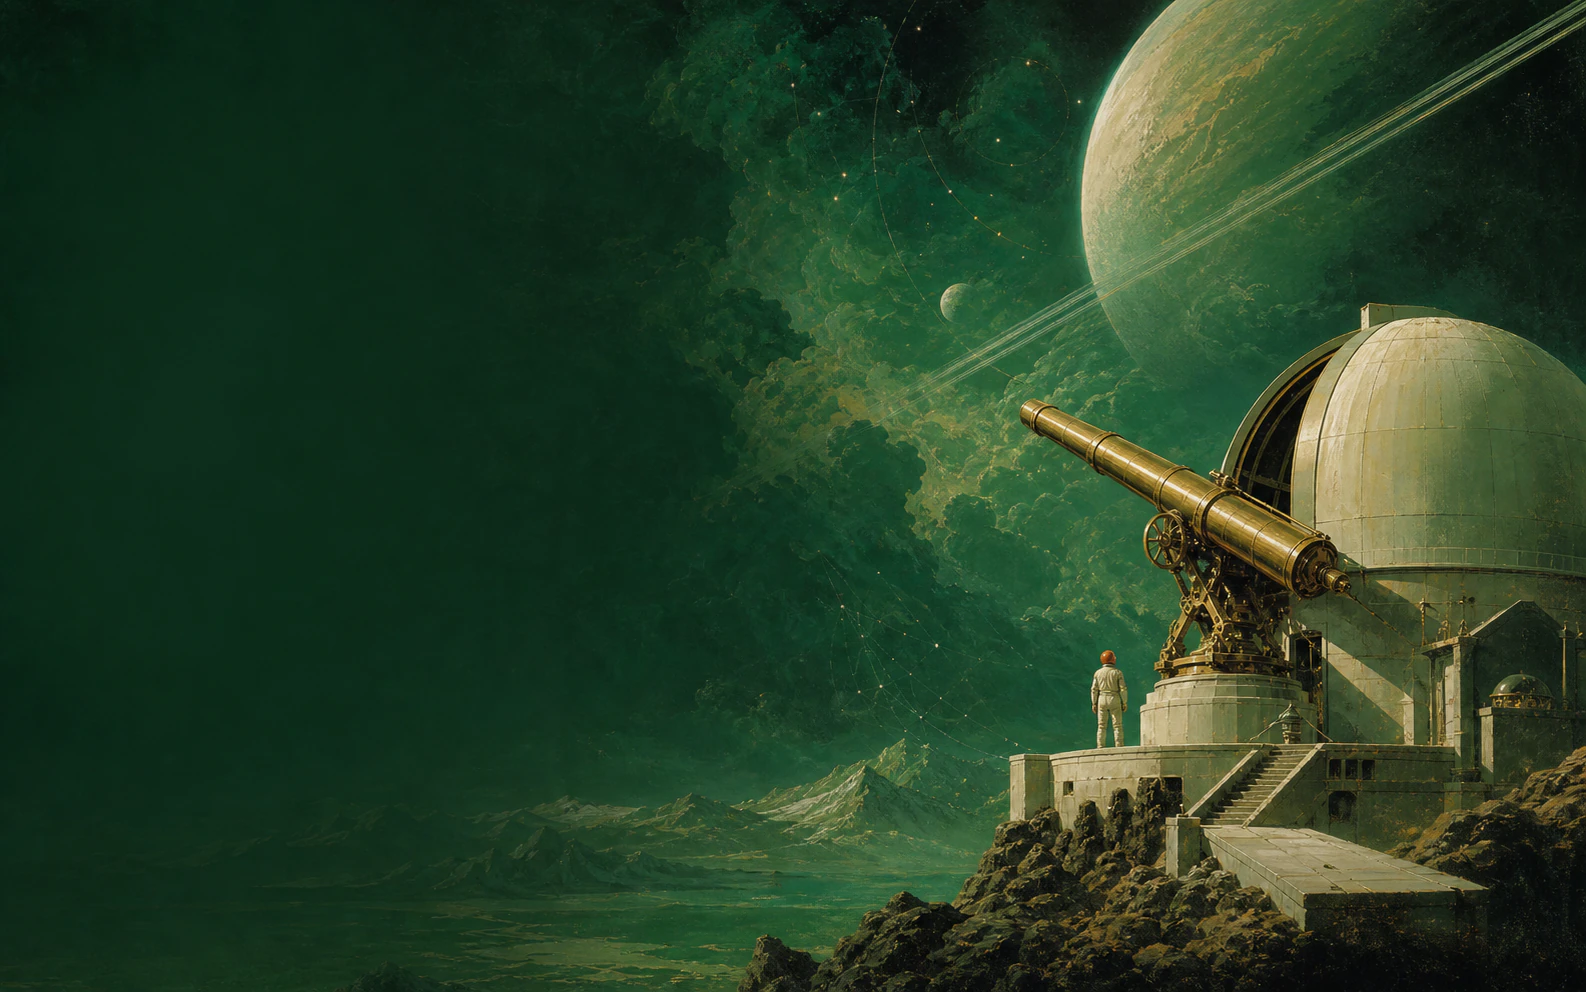
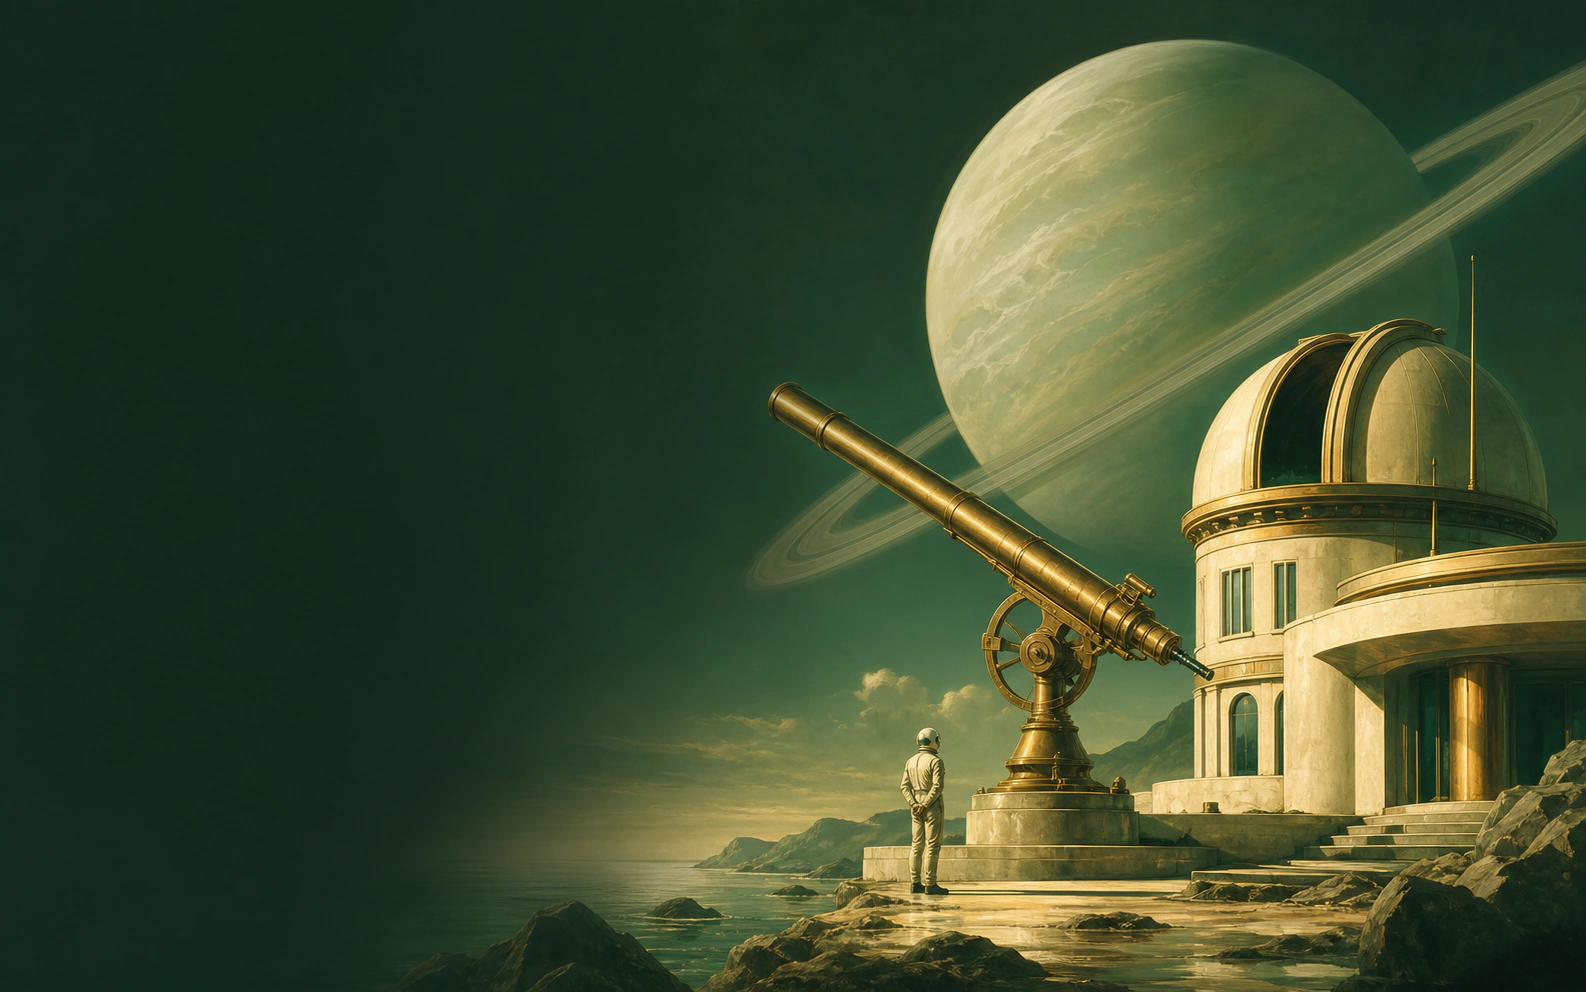
feat(docs): polish full-bleed observatory hero

diff --git a/docs/.vitepress/theme/custom.css b/docs/.vitepress/theme/custom.css
@@ -571,6 +571,9 @@ textarea:focus-visible {
   --home-paper: oklch(0.95 0.03 97);
   --home-ivory: oklch(0.975 0.022 91);
   --home-orange: oklch(0.66 0.16 46);
+  --home-radius-control: 14px;
+  --home-radius-card: 22px;
+  --home-radius-panel: 28px;
   width: 100%;
   overflow: hidden;
   background: var(--home-paper);
@@ -587,15 +590,49 @@ body:has(.uni-docs-home) .VPFooter {
   display: none;
 }
 
+body:has(.uni-docs-home) .VPNav {
+  --vp-c-bg: oklch(0.18 0.05 158);
+  --vp-c-bg-alt: oklch(0.2 0.055 158);
+  --vp-c-bg-soft: oklch(0.25 0.055 158);
+  --vp-c-text-1: oklch(0.975 0.022 91);
+  --vp-c-text-2: oklch(0.84 0.045 122);
+  --vp-c-divider: transparent;
+}
+
+body:has(.uni-docs-home) .VPNavBar {
+  border-bottom: 0 !important;
+  background: oklch(0.18 0.05 158) !important;
+  box-shadow: none !important;
+}
+
+body:has(.uni-docs-home) .VPNavBarTitle .title,
+body:has(.uni-docs-home) .VPNavBarMenuLink,
+body:has(.uni-docs-home) .VPNavBarTranslations .button,
+body:has(.uni-docs-home) .VPNavBarTranslations .text,
+body:has(.uni-docs-home) .VPSocialLink,
+body:has(.uni-docs-home) .VPNavBarHamburger {
+  color: oklch(0.975 0.022 91) !important;
+}
+
+body:has(.uni-docs-home) .VPNavBarSearch .DocSearch-Button {
+  border: 0 !important;
+  background: color-mix(in oklch, white 10%, transparent) !important;
+  color: oklch(0.84 0.045 122) !important;
+}
+
+body:has(.uni-docs-home) .VPNavBarHamburger .container span {
+  background: oklch(0.975 0.022 91) !important;
+}
+
 .uni-landing-hero {
   position: relative;
   display: flex;
-  width: min(1400px, calc(100% - 32px));
-  min-height: min(820px, calc(100svh - 82px));
+  width: 100%;
+  min-height: calc(100svh - 64px);
   align-items: center;
-  margin: 16px auto 0;
+  margin: 0;
   overflow: hidden;
-  border-radius: 24px;
+  border-radius: 0;
   background: var(--home-forest-deep);
   isolation: isolate;
 }
@@ -667,7 +704,7 @@ body:has(.uni-docs-home) .VPFooter {
 .uni-install-panel {
   width: min(560px, 100%);
   padding: 6px;
-  border-radius: 18px;
+  border-radius: var(--home-radius-panel);
   background: var(--home-ivory);
   box-shadow: 0 22px 54px oklch(0.12 0.04 158 / 0.26);
 }
@@ -677,7 +714,7 @@ body:has(.uni-docs-home) .VPFooter {
   width: fit-content;
   gap: 3px;
   padding: 3px;
-  border-radius: 10px;
+  border-radius: var(--home-radius-control);
   background: var(--home-sage);
 }
 
@@ -685,7 +722,7 @@ body:has(.uni-docs-home) .VPFooter {
   min-height: 32px;
   padding: 0 12px;
   border: 0;
-  border-radius: 8px;
+  border-radius: 11px;
   background: transparent;
   color: color-mix(in oklch, var(--home-forest) 72%, var(--home-paper));
   font: inherit;
@@ -736,7 +773,7 @@ body:has(.uni-docs-home) .VPFooter {
   min-height: 46px;
   padding: 0 16px;
   border: 0;
-  border-radius: 12px;
+  border-radius: var(--home-radius-control);
   background: var(--home-orange);
   color: var(--home-ivory);
   font: inherit;
@@ -763,7 +800,7 @@ body:has(.uni-docs-home) .VPFooter {
   align-items: center;
   gap: 8px;
   padding: 0 16px;
-  border-radius: 12px;
+  border-radius: var(--home-radius-control);
   background: color-mix(in oklch, var(--home-ivory) 12%, transparent);
   color: var(--home-ivory) !important;
   font-size: 14px;
@@ -830,7 +867,7 @@ body:has(.uni-docs-home) .VPFooter {
   gap: 10px;
   padding: 10px;
   border: 0;
-  border-radius: 22px;
+  border-radius: var(--home-radius-panel);
   background: var(--home-sage);
   box-shadow: none;
 }
@@ -839,7 +876,7 @@ body:has(.uni-docs-home) .VPFooter {
   min-width: 0;
   padding: 28px;
   border: 0 !important;
-  border-radius: 14px;
+  border-radius: var(--home-radius-card);
   background: var(--home-ivory);
 }
 
@@ -886,7 +923,7 @@ body:has(.uni-docs-home) .VPFooter {
   gap: 4px 12px;
   padding: 14px;
   border: 0;
-  border-radius: 11px;
+  border-radius: var(--home-radius-control);
   background: color-mix(in oklch, var(--home-sage) 48%, var(--home-ivory));
 }
 
@@ -941,7 +978,7 @@ body:has(.uni-docs-home) .VPFooter {
   grid-template-columns: 0.8fr 1fr;
   gap: 12px;
   padding: 10px 12px;
-  border-radius: 10px;
+  border-radius: var(--home-radius-control);
   background: color-mix(in oklch, var(--home-sage) 42%, var(--home-ivory));
 }
 
@@ -963,7 +1000,7 @@ body:has(.uni-docs-home) .VPFooter {
 .uni-receipt-result p {
   margin: 18px 0 0;
   padding: 12px;
-  border-radius: 10px;
+  border-radius: var(--home-radius-control);
   background: color-mix(in oklch, var(--home-sage) 58%, var(--home-ivory));
   color: var(--home-forest);
   font-size: 12px;
@@ -998,7 +1035,7 @@ body:has(.uni-docs-home) .VPFooter {
   gap: 8px 16px;
   padding: 24px;
   border: 0;
-  border-radius: 16px;
+  border-radius: var(--home-radius-card);
   background: color-mix(
     in oklch,
     var(--home-viridian) 78%,
@@ -1057,7 +1094,7 @@ body:has(.uni-docs-home) .VPFooter {
   min-width: 0;
   padding: 22px;
   border: 0;
-  border-radius: 16px;
+  border-radius: var(--home-radius-card);
   background: var(--home-ivory);
 }
 
@@ -1107,7 +1144,7 @@ body:has(.uni-docs-home) .VPFooter {
   gap: 16px;
   padding: 24px;
   border: 0;
-  border-radius: 16px;
+  border-radius: var(--home-radius-card);
   background: var(--home-ivory);
   box-shadow: none;
   transition:
@@ -1167,7 +1204,7 @@ body:has(.uni-docs-home) .VPFooter {
 
 .uni-footer-meta a {
   padding: 9px 12px;
-  border-radius: 10px;
+  border-radius: var(--home-radius-control);
   background: color-mix(in oklch, var(--home-ivory) 10%, transparent);
   color: var(--home-ivory) !important;
   font-size: 13px;
@@ -1572,8 +1609,8 @@ body:has(.uni-docs-home) .VPFooter {
   }
 
   .uni-landing-hero {
-    width: calc(100% - 24px);
-    min-height: 720px;
+    width: 100%;
+    min-height: calc(100svh - 64px);
   }
 
   .uni-hero-copy {
@@ -1605,10 +1642,10 @@ body:has(.uni-docs-home) .VPFooter {
 
 @media (max-width: 760px) {
   .uni-landing-hero {
-    width: calc(100% - 24px);
-    min-height: 880px;
+    width: 100%;
+    min-height: max(880px, calc(100svh - 64px));
     align-items: flex-start;
-    border-radius: 20px;
+    border-radius: 0;
   }
 
   .uni-hero-painting {
@@ -1699,10 +1736,10 @@ body:has(.uni-docs-home) .VPFooter {
   }
 
   .uni-landing-hero {
-    width: calc(100% - 16px);
+    width: 100%;
     min-height: 850px;
-    margin-top: 8px;
-    border-radius: 16px;
+    margin-top: 0;
+    border-radius: 0;
   }
 
   .uni-hero-copy {

diff --git a/DESIGN.md b/DESIGN.md
@@ -2,7 +2,7 @@
 
 ## Direction
 
-The public surface combines two layers. Functional controls retain the compact behavior of [Appica UI](https://appica.dev/ui), ported from `appica-dev/appica-ui@26de9b1e02d2fb48694ae52d2371b1bbd71ee9d6` into VitePress and Vue. The campaign layer is **The Green Observatory**: a 1960s space-program future imagined through oil glazing, viridian landscape painting, restrained lithographic grain, and an asymmetric editorial composition. Appica's React runtime is not added. Its MIT license is preserved in `docs/.vitepress/theme/APPICA-UI-LICENSE.txt`.
+The public surface combines two layers. Functional controls retain the compact behavior of [Appica UI](https://appica.dev/ui), ported from `appica-dev/appica-ui@26de9b1e02d2fb48694ae52d2371b1bbd71ee9d6` into VitePress and Vue. The campaign layer is **The Green Observatory**: a 1960s space-program future imagined through smooth oil glazing, continuous viridian color fields, and an asymmetric editorial composition. Appica's React runtime is not added. Its MIT license is preserved in `docs/.vitepress/theme/APPICA-UI-LICENSE.txt`.
 
 The homepage begins with a real copy target rather than explanatory prose. Visitors can copy either the npm installation command or a concise instruction for an agent. The observatory, telescope, and ringed planet carry the exploration metaphor; the interface remains modern and legible above the media plane. Each later section presents one action or one structured result. Decorative dividers, status dots, glowing traces, and ornamental diagrams are absent.
 
@@ -62,7 +62,7 @@ Burnt orange appears only on the primary copy action and selected-result feedbac
 
 ## Composition
 
-The homepage hero is one wide painted field. Copy occupies the quiet left side; the observatory and planet establish a diagonal on the right. The installation component sits at the handoff between headline and image and remains the primary action. The large `Uni-CLI` footer closes the page like the bottom of a printed campaign poster.
+The homepage hero is one full-viewport painted field beneath a matching forest navigation bar. Copy occupies the quiet left side; the observatory and planet establish a diagonal on the right. The installation component sits at the handoff between headline and image and remains the primary action. There is no inset frame or pale perimeter. The large `Uni-CLI` footer closes the page like the bottom of a printed campaign poster.
 
 At 760px the composition becomes a two-part poster: a solid forest command field above and a cropped observatory painting below. At 640px the command and copy action stack without hiding either mode. Receipt and entry layouts collapse to one column. No content exceeds the viewport.
 
@@ -79,4 +79,4 @@ No component runs a continuous animation. The interface contains no breathing li
 - Homepage painting: `docs/public/green-observatory.webp`
 - Mascot: `docs/public/mascot-otter.png`
 
-The homepage painting is an original generated asset with no embedded type, logo, or third-party artwork. Its art direction is a viridian 1960s observatory landscape with oil glazing, lithographic grain, left-side negative space, a ringed planet, one telescope, and one astronomer. The preview and Open Graph image are generated from the production homepage after visual verification.
+The homepage painting is an original generated asset with no embedded type, logo, or third-party artwork. Its art direction is a viridian 1960s observatory landscape with smooth oil glazing, broad controlled brushwork, left-side negative space, a ringed planet, one telescope, and one astronomer. Speckled dots, tiling texture, repetitive grime, stippling, halftone, dithering, microdots, canvas weave, and film grain are excluded at generation time. The preview and Open Graph image are generated from the production homepage after visual verification.
